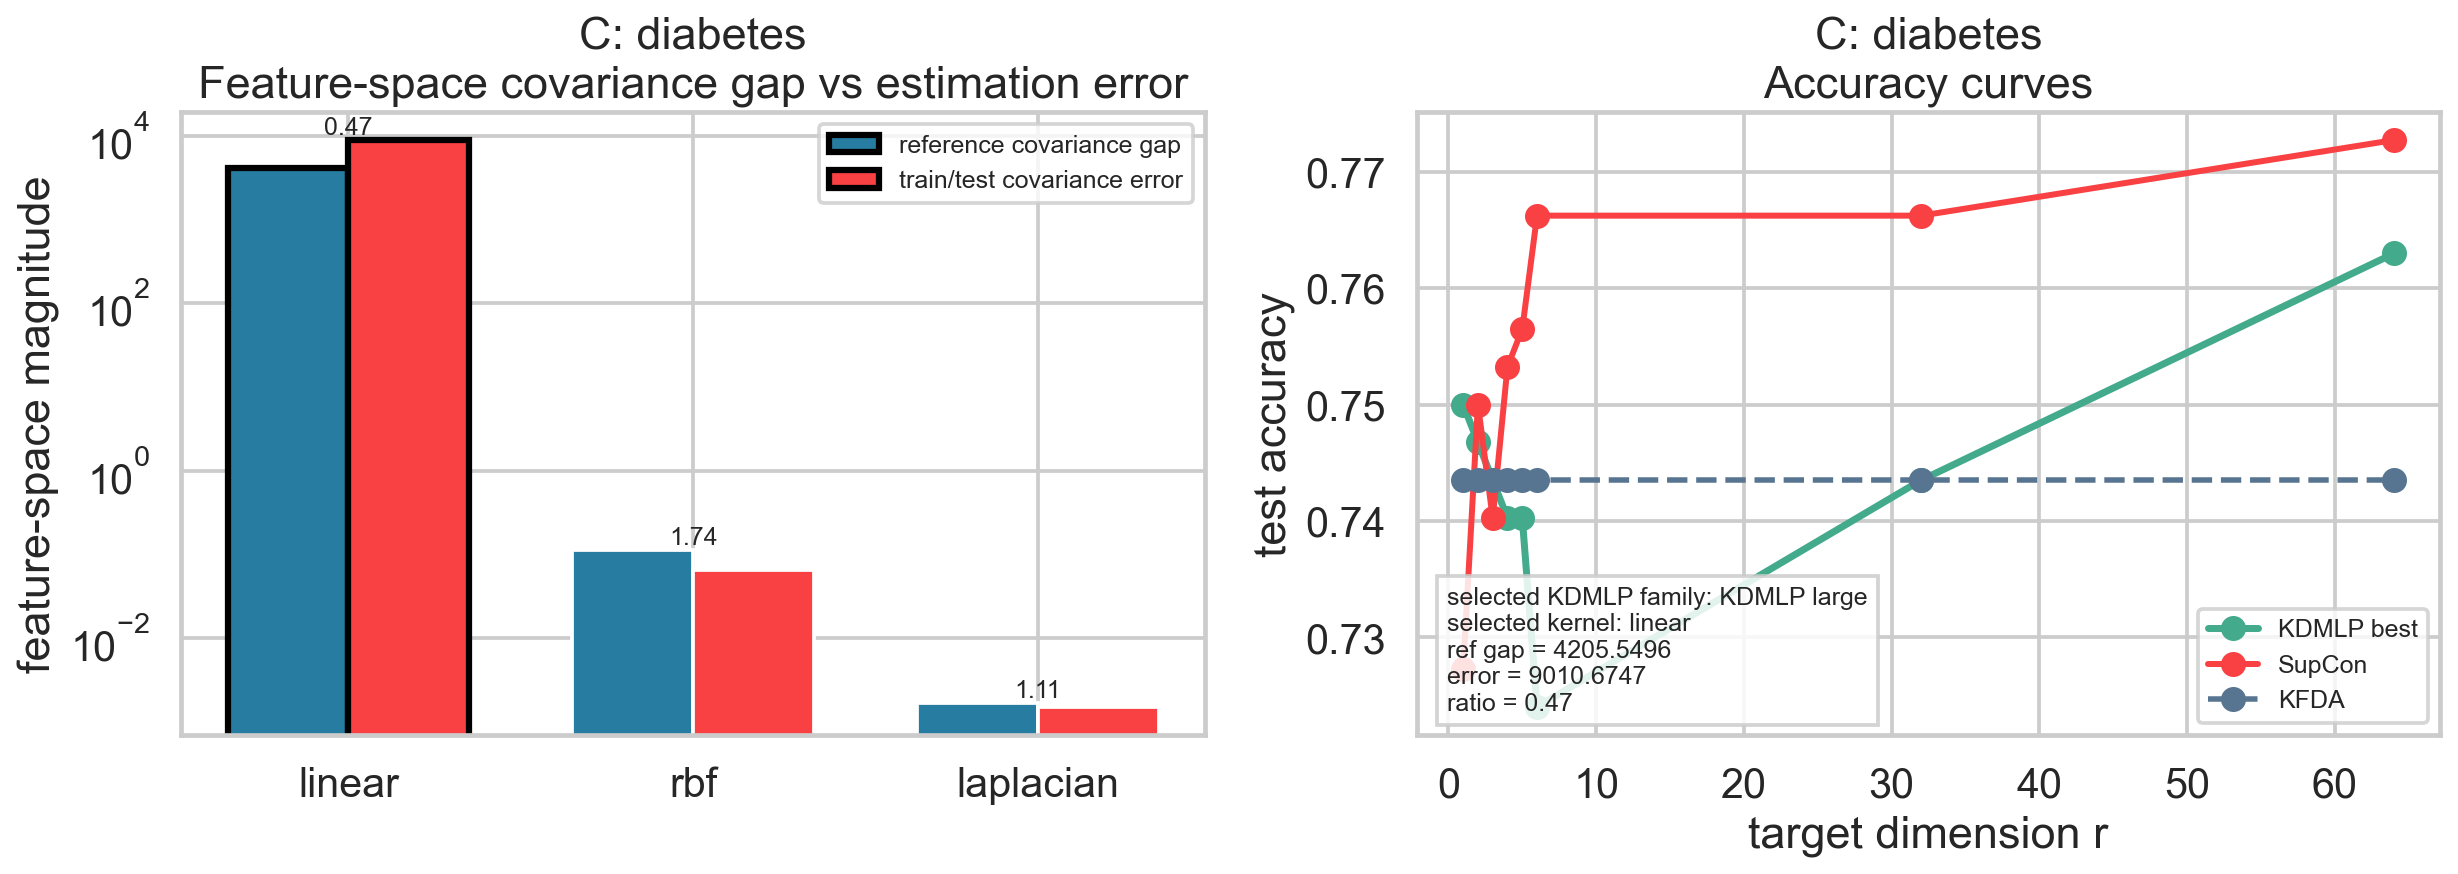
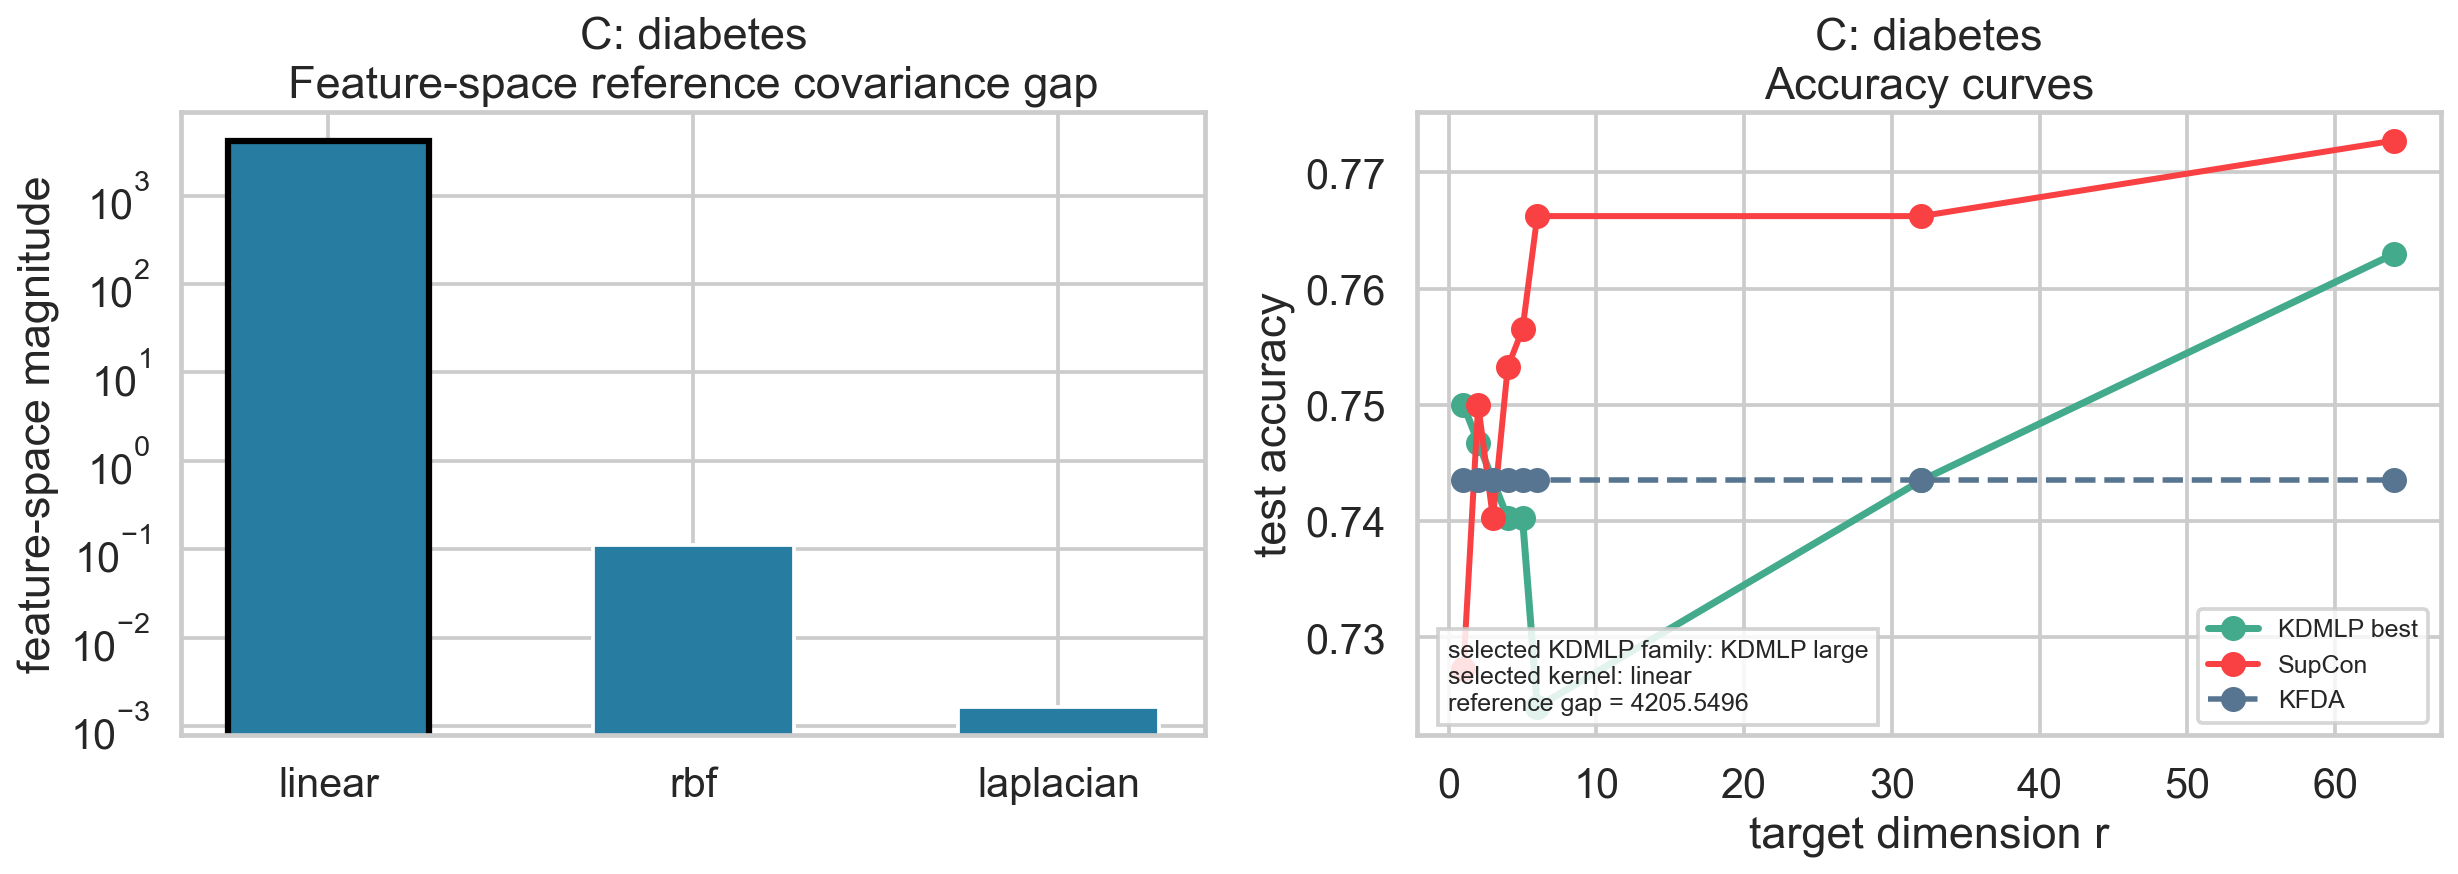
Simplify OpenML feature covariance section

diff --git a/simulations/real_data_r_growth_workspace/openml_feature_covariance_cases.py b/simulations/real_data_r_growth_workspace/openml_feature_covariance_cases.py
@@ -183,23 +183,16 @@ def plot_dataset_case(
 
     ax = axes[0]
     x = np.arange(len(diag_sub))
-    width = 0.35
-    bars1 = ax.bar(x - width / 2, diag_sub["ref_D_sigma_feature"], width=width, color="#277da1", label="reference covariance gap")
-    bars2 = ax.bar(x + width / 2, diag_sub["cov_gap_error_feature"], width=width, color="#f94144", label="train/test covariance error")
+    bars1 = ax.bar(x, diag_sub["ref_D_sigma_feature"], width=0.55, color="#277da1", label="reference covariance gap")
     for i, row in enumerate(diag_sub.itertuples(index=False)):
-        ratio = float(row.ratio)
-        ax.text(i, max(row.ref_D_sigma_feature, row.cov_gap_error_feature) * 1.02, f"{ratio:.2f}", ha="center", va="bottom", fontsize=10)
         if row.kernel == rep_kernel:
             bars1[i].set_edgecolor("black")
-            bars2[i].set_edgecolor("black")
             bars1[i].set_linewidth(2.5)
-            bars2[i].set_linewidth(2.5)
     ax.set_xticks(x)
     ax.set_xticklabels(diag_sub["kernel"])
     ax.set_yscale("log")
     ax.set_ylabel("feature-space magnitude")
-    ax.set_title(f"{label}: {dataset}\nFeature-space covariance gap vs estimation error")
-    ax.legend(loc="upper right", fontsize=10)
+    ax.set_title(f"{label}: {dataset}\nFeature-space reference covariance gap")
 
     ax = axes[1]
     ax.plot(curve_df["r"], curve_df["my_best_acc"], marker="o", linewidth=2.8, color="#43aa8b", label="KDMLP best")
@@ -214,9 +207,7 @@ def plot_dataset_case(
         (
             f"selected KDMLP family: {rep_family.replace('MY-', 'KDMLP ').replace('_mu', '')}\n"
             f"selected kernel: {rep_kernel}\n"
-            f"ref gap = {rep_row['ref_D_sigma_feature']:.4f}\n"
-            f"error = {rep_row['cov_gap_error_feature']:.4f}\n"
-            f"ratio = {rep_row['ratio']:.2f}"
+            f"reference gap = {rep_row['ref_D_sigma_feature']:.4f}"
         ),
         transform=ax.transAxes,
         fontsize=10,

diff --git a/README.md b/README.md
@@ -151,13 +151,10 @@ The workspace also exports every OpenML dataset individually. The grid below sum
 
 ![OpenML all-case grid](simulations/real_data_r_growth_workspace/outputs/openml_all_cases_grid.png)
 
-We also added a more focused feature-space covariance diagnostic for three OpenML datasets. For each dataset, we take the KDMLP family/kernel selected at the best KDMLP point, compute a held-out reference feature-space covariance gap, and compare it with the train/test covariance-gap estimation discrepancy. `banana` is the clean positive example: under the selected `laplacian` kernel the held-out covariance signal is much larger than the estimation error (`0.1832` vs `0.0420`, ratio `4.37`), and KDMLP clearly improves over KFDA (`0.895` vs `0.683`). `ringnorm` is more subtle: the selected `laplacian` kernel still has a measurable covariance signal (`7.9e-05` vs `3.5e-05`, ratio `2.29`), but KFDA remains slightly stronger (`0.981` vs `0.975`), so the presence of covariance signal alone is not sufficient when the KFDA direction is already extremely strong. `diabetes` is the noise-dominated example under the selected `linear` kernel (`4205.5` vs `9010.7`, ratio `0.47`), and KDMLP only shows a marginal gain at the largest `r` rather than a robust advantage over KFDA.
-
-| Label | Dataset | Selected KDMLP kernel | Reference covariance gap | Train/test covariance error | Ratio | Best KDMLP | SupCon best | KFDA |
-| --- | --- | --- | ---: | ---: | ---: | ---: | ---: | ---: |
-| A | banana | `laplacian` | 0.1832 | 0.0420 | 4.37 | 0.895 | 0.831 | 0.683 |
-| B | ringnorm | `laplacian` | 0.000079 | 0.000035 | 2.29 | 0.975 | 0.972 | 0.981 |
-| C | diabetes | `linear` | 4205.5 | 9010.7 | 0.47 | 0.763 | 0.773 | 0.744 |
+| Label | Dataset | Selected KDMLP kernel | Reference covariance gap | Best KDMLP | SupCon best | KFDA |
+| --- | --- | --- | ---: | ---: | ---: | ---: |
+| A | banana | `laplacian` | 0.1832 | 0.895 | 0.831 | 0.683 |
+| B | ringnorm | `laplacian` | 0.000079 | 0.975 | 0.972 | 0.981 |
 
 ![banana feature covariance case](simulations/real_data_r_growth_workspace/outputs/openml_feature_covariance_cases/banana_feature_covariance_case.png)
 

diff --git a/simulations/real_data_r_growth_workspace/README.md b/simulations/real_data_r_growth_workspace/README.md
@@ -33,13 +33,10 @@ The workspace now also exports all OpenML datasets one by one. Each dataset gets
 
 ![OpenML all-case grid](outputs/openml_all_cases_grid.png)
 
-We also added a more focused feature-space covariance diagnostic for three OpenML datasets. For each dataset, we take the KDMLP family/kernel selected at the best KDMLP point, compute a held-out reference feature-space covariance gap, and compare it with the train/test covariance-gap estimation discrepancy. `banana` is the clean positive example: under the selected `laplacian` kernel the held-out covariance signal is much larger than the estimation error (`0.1832` vs `0.0420`, ratio `4.37`), and KDMLP clearly improves over KFDA (`0.895` vs `0.683`). `ringnorm` is more subtle: the selected `laplacian` kernel still has a measurable covariance signal (`7.9e-05` vs `3.5e-05`, ratio `2.29`), but KFDA remains slightly stronger (`0.981` vs `0.975`), so the presence of covariance signal alone is not sufficient when the KFDA direction is already extremely strong. `diabetes` is the noise-dominated example under the selected `linear` kernel (`4205.5` vs `9010.7`, ratio `0.47`), and KDMLP only shows a marginal gain at the largest `r` rather than a robust advantage over KFDA.
-
-| Label | Dataset | Selected KDMLP kernel | Reference covariance gap | Train/test covariance error | Ratio | Best KDMLP | SupCon best | KFDA |
-| --- | --- | --- | ---: | ---: | ---: | ---: | ---: | ---: |
-| A | banana | `laplacian` | 0.1832 | 0.0420 | 4.37 | 0.895 | 0.831 | 0.683 |
-| B | ringnorm | `laplacian` | 0.000079 | 0.000035 | 2.29 | 0.975 | 0.972 | 0.981 |
-| C | diabetes | `linear` | 4205.5 | 9010.7 | 0.47 | 0.763 | 0.773 | 0.744 |
+| Label | Dataset | Selected KDMLP kernel | Reference covariance gap | Best KDMLP | SupCon best | KFDA |
+| --- | --- | --- | ---: | ---: | ---: | ---: |
+| A | banana | `laplacian` | 0.1832 | 0.895 | 0.831 | 0.683 |
+| B | ringnorm | `laplacian` | 0.000079 | 0.975 | 0.972 | 0.981 |
 
 ![banana feature covariance case](outputs/openml_feature_covariance_cases/banana_feature_covariance_case.png)
 
